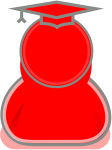
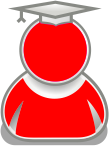
Player mit Farbe, anpassungen an der Map/getter Setter verbessert, Bugfixing, umstellung auf ID statt Name,

diff --git a/SERisiko/web/js/SvgFunctions.js b/SERisiko/web/js/SvgFunctions.js
@@ -18,8 +18,6 @@ function SvgFunctions(document){
     //# Public Methods
     this.init = function(doc){       
         svgDoc = doc;
-        this.refreshOwnerRights();
-        initUnitOnMap();
     };
 
     this.identifyAttacker = function(id){
@@ -31,7 +29,7 @@ function SvgFunctions(document){
         if(Core.getPlayerStatus() == Core.gameSteps.state.ATTACK){
             for (var i = 0; i < neighborLands.length; i++) {
                 theRect = svgDoc.getElementById(neighborLands[i]);
-                if(theRect.getAttribute("Owner") !=  Core.getPlayerName()){
+                if(theRect.getAttribute("Owner") !=  Core.getPlayerId()){
                     theRect.onmouseover = new Function("Core.svgHandler.setOpacityOnRect(this.id, 0.5, 'pointer');");
                     theRect.onmouseout = new Function("Core.svgHandler.setOpacityOnRect(this.id, 0.75, 'default');");
                     theRect.onclick = new Function("Core.svgHandler.identifyDestination(this.id, '" + id + "' );");
@@ -54,7 +52,7 @@ function SvgFunctions(document){
                     if(doneCountrys.indexOf(theRect.getAttribute('id')) == -1){
                         doneCountrys.push(theRect.getAttribute('id'));
                     }
-                    if(theRect.getAttribute("Owner") ==  Core.getPlayerName()){
+                    if(theRect.getAttribute("Owner") ==  Core.getPlayerId()){
                         theRect.onmouseover = new Function("Core.svgHandler.setOpacityOnRect(this.id, 0.5, 'pointer');");
                         theRect.onmouseout = new Function("Core.svgHandler.setOpacityOnRect(this.id, 0.75, 'default');");
                         theRect.onclick = new Function("Core.svgHandler.identifyDestination(this.id, '" + id + "' );");
@@ -83,7 +81,6 @@ function SvgFunctions(document){
                     theRect = svgDoc.getElementById(neighborLands[i] + "_back");
                     theRect.onmouseout = new Function("Core.svgHandler.setOpacityOnRect(this.id, 1, 'default');");
                     theRect.setAttribute('opacity','1');
-                    
                 }
             }
             Core.combatHandler.selectAmountUnit(attacker, id);
@@ -92,17 +89,24 @@ function SvgFunctions(document){
         }
         
     };
+    
     this.getLandOwner = function(landId){
         svgDoc.getElementById(landId).getAttribute("Owner");  
     };
     
-    this.setNewLandOwner = function(landId, playerName){
+    this.setNewLandOwner = function(landId, playerId){
         // parse playerId to Playername....
-        svgDoc.getElementById(landId).setAttribute("Owner", playerName);  
+        svgDoc.getElementById(landId).setAttribute("Owner", playerId); 
+        if(svgDoc.getElementById(landId + "_Unit") != null){
+            svgDoc.getElementById(landId + "_Unit").setAttribute("xlink:href", Core.playerList.getPlayerById(playerId).getColor());
+        }
     };
     
     this.setLandUnitcount = function(landId, count){
-        svgDoc.getElementById(landId).setAttribute("Unitcount", count);  
+        svgDoc.getElementById(landId).setAttribute("Unitcount", count);
+        if(svgDoc.getElementById(landId + "_UnitCount") != null){
+            svgDoc.getElementById(landId + "_UnitCount").innerHTML = count;
+        }
     };
     
     this.getLandUnitcount = function(landId){
@@ -125,7 +129,7 @@ function SvgFunctions(document){
     this.refreshOwnerRights = function (){
         var rects = svgDoc.getElementsByTagName("rect");
         [].slice.call(rects).forEach(function(rect){
-            if(rect.getAttribute("Owner") === Core.getPlayerName()){
+            if(rect.getAttribute("Owner") == Core.getPlayerId()){
                 rect.onmouseover = new Function("Core.svgHandler.setOpacityOnRect(this.id, 0.75, 'pointer');");
                 rect.onmouseout = new Function("Core.svgHandler.setOpacityOnRect(this.id, 1, 'default');");
                 rect.onclick = new Function("Core.svgHandler.identifyAttacker(this.id);");
@@ -133,11 +137,10 @@ function SvgFunctions(document){
         });        
     };
     
-    
     this.refreshOwnerRightsForUnitPlace = function (value){
         var rects = svgDoc.getElementsByTagName("rect");
         [].slice.call(rects).forEach(function(rect){
-            if(rect.getAttribute("Owner") === Core.getPlayerName()){
+            if(rect.getAttribute("Owner") == Core.getPlayerId()){
                 rect.onmouseover = new Function("Core.svgHandler.setOpacityOnRect(this.id, 0.75, 'pointer');");
                 rect.onmouseout = new Function("Core.svgHandler.setOpacityOnRect(this.id, 1, 'default');");
                 rect.onclick = new Function("Core.unitPlacementHandler.unitPlacement(this.id, \""+value+"\");");
@@ -197,18 +200,7 @@ function SvgFunctions(document){
         root.getElementById("startAttack").disabled = false;
     };
     
-    //Private Methods
-    
-    var arraySchnittmengeDelete = function(array, arrayDelete){
-        for(i = 0; i < arrayDelete.length; i++){
-            while(array.indexOf(arrayDelete[i]) != -1){
-                array.splice(array.indexOf(arrayDelete[i]), 1);
-            }
-        }
-        return array;
-    };
-    
-    var initUnitOnMap = function(){
+    this.initUnitOnMap = function(){
         var rects = svgDoc.getElementsByTagName("rect");
         var xPosition = 0;
         var yPosition = 0;
@@ -219,9 +211,11 @@ function SvgFunctions(document){
         var mapUnitID = svgDoc.getElementById("MapUnit");
         var mapUnitCountCountry = svgDoc.getElementById("UnitCountCountry");
         var rectID = "";
+        var bildSource = "";
         
         [].slice.call(rects).forEach(function(rect){
             rectID = rect.getAttribute("id");
+            
             if(rectID != "" && rectID.indexOf("_back") == -1){
                 countryHeight = parseInt(rect.getAttribute("height"));
                 countryWidth = parseInt(rect.getAttribute("width"));
@@ -243,8 +237,18 @@ function SvgFunctions(document){
                     xPosition = (parseInt(rect.getAttribute("x")) + countryWidth/2) - (width / 2);
                 }
                 
+                var playerArr = Core.playerList.getPlayers();
+ 
+                for (var i = 0; i < playerArr.length; i++){
+                    if(rect.getAttribute("Owner") == playerArr[i].getPlayerId()){
+                        bildSource = playerArr[i].getColor();
+                    } else {
+                        bildSource = "/img/player_img/player_red.png";
+                    }
+                }
+                
                 yPosition = (parseInt(rect.getAttribute("y")) + countryHeight/2) - (height / 2);
-                mapUnitID.innerHTML = mapUnitID.innerHTML + '<image id="' + rectID + '_Unit" x="' + xPosition + '" y="' + yPosition + '" width="' + width + '" height="' + height + '" xlink:href="/img/player_img/player_red.png" />';
+                mapUnitID.innerHTML = mapUnitID.innerHTML + '<image id="' + rectID + '_Unit" x="' + xPosition + '" y="' + yPosition + '" width="' + width + '" height="' + height + '" xlink:href="' + bildSource + '" />';
                 
                 if(countryWidth > 1234){
                     xPosition = xPosition + width * 1.4 ;
@@ -254,8 +258,19 @@ function SvgFunctions(document){
                     yPosition = yPosition + height * 1.5;
                 }
                
-                mapUnitCountCountry.innerHTML = mapUnitCountCountry.innerHTML + '<text id="' + rectID + '_UnitCount" x="' + xPosition + '" y="' + yPosition + '" class="fil6 fnt2" text-anchor="middle">99</text>';
+                mapUnitCountCountry.innerHTML = mapUnitCountCountry.innerHTML + '<text id="' + rectID + '_UnitCount" x="' + xPosition + '" y="' + yPosition + '" class="fil6 fnt2" text-anchor="middle">' + Core.svgHandler.getLandUnitcount(rectID) + '</text>';
             }
         });
+    };
+    
+    //Private Methods
+    
+    var arraySchnittmengeDelete = function(array, arrayDelete){
+        for(i = 0; i < arrayDelete.length; i++){
+            while(array.indexOf(arrayDelete[i]) != -1){
+                array.splice(array.indexOf(arrayDelete[i]), 1);
+            }
+        }
+        return array;
     };
 }

diff --git a/SERisiko/web/js/Core.js b/SERisiko/web/js/Core.js
@@ -31,6 +31,7 @@ function Core() {
             return false;
         myData.setPlayerName(name);
         
+        
         // create Player on Server + joinLobby
         this.connectionHandler.joinServer(name); // includes joinlobby
     };
@@ -126,28 +127,42 @@ function Core() {
          // cleanup
         document.getElementById("playerList").innerHTML = "";
         this.playerList.clear();
-        this.connectionHandler.listPlayers()
+        this.connectionHandler.listPlayers();
         //verify 
         this.showElement(document.getElementById("game"));
         this.hideElement(document.getElementById("selectGame"));
 
         // give me some lands test
-            this.svgHandler.setNewLandOwner("D2" ,this.getPlayerName());
-            this.svgHandler.setNewLandOwner("D1" ,this.getPlayerName());
-            this.svgHandler.setNewLandOwner("D7" ,this.getPlayerName());
-            this.svgHandler.setNewLandOwner("D6" ,this.getPlayerName());
-            this.svgHandler.setNewLandOwner("E1" ,this.getPlayerName());
-            this.svgHandler.setNewLandOwner("E3" ,this.getPlayerName());
-            this.svgHandler.setNewLandOwner("C4" ,this.getPlayerName());
-            this.svgHandler.setNewLandOwner("B5" ,this.getPlayerName());
-            this.svgHandler.setNewLandOwner("A1" ,this.getPlayerName());
-            this.svgHandler.setNewLandOwner("A5" ,this.getPlayerName());
-            this.svgHandler.setNewLandOwner("P4" ,this.getPlayerName());
-            this.svgHandler.setNewLandOwner("P12" ,this.getPlayerName());
+            this.svgHandler.setNewLandOwner("D2" ,this.getPlayerId());
+            this.svgHandler.setNewLandOwner("D1" ,this.getPlayerId());
+            this.svgHandler.setNewLandOwner("D7" ,this.getPlayerId());
+            this.svgHandler.setNewLandOwner("D6" ,this.getPlayerId());
+            this.svgHandler.setNewLandOwner("E1" ,this.getPlayerId());
+            this.svgHandler.setNewLandOwner("E3" ,this.getPlayerId());
+            this.svgHandler.setNewLandOwner("C4" ,this.getPlayerId());
+            this.svgHandler.setNewLandOwner("B5" ,this.getPlayerId());
+            this.svgHandler.setNewLandOwner("A1" ,this.getPlayerId());
+            this.svgHandler.setNewLandOwner("A5" ,this.getPlayerId());
+            this.svgHandler.setNewLandOwner("P4" ,this.getPlayerId());
+            this.svgHandler.setNewLandOwner("P12" ,this.getPlayerId());
+            
+            this.svgHandler.setLandUnitcount("D2" ,1);
+            this.svgHandler.setLandUnitcount("D1" , 1 );
+            this.svgHandler.setLandUnitcount("D7" , 4);
+            this.svgHandler.setLandUnitcount("D6" ,1);
+            this.svgHandler.setLandUnitcount("E1" ,1);
+            this.svgHandler.setLandUnitcount("E3" ,1);
+            this.svgHandler.setLandUnitcount("C4" ,3);
+            this.svgHandler.setLandUnitcount("B5" ,2);
+            this.svgHandler.setLandUnitcount("A1" ,4);
+            this.svgHandler.setLandUnitcount("A5" ,5);
+            this.svgHandler.setLandUnitcount("P4" ,2);
+            this.svgHandler.setLandUnitcount("P12" ,4);
             
             this.setPlayerStatus(Core.gameSteps.state.FIRSTUNITMOVEMENT);
             
             document.getElementById("gamePhase").disabled = false;
+            
         //#
     };
 

diff --git a/SERisiko/web/js/ServerAnswerParser.js b/SERisiko/web/js/ServerAnswerParser.js
@@ -78,7 +78,7 @@ function ServerAnswerParser(doc){
             Core.hideElement(root.getElementById("newGame"));
             Core.prepareJoinedGame();
 
-            root.getElementById("startGame").innerHTML = '<button  id="startGameBtn" name="startGameBtn" onClick="Core.connectionHandler.startGame();" style="margin-bottom: 10px;">Spielstarten</button>';
+            root.getElementById("startGame").innerHTML = '<button  id="startGameBtn" name="startGameBtn" onClick="Core.connectionHandler.startGame();" style="width: 160px; margin-bottom: 10px;">Spielstarten</button>';
             root.getElementById("startGameBtn").disabled = true;
             //cleanup
             root.getElementById("maxPlayers").value = "6";
@@ -108,7 +108,7 @@ function ServerAnswerParser(doc){
         Core.playerList.clear();
         // parse message			  	  
         for(var i = 0; i < message.data.length; i++){
-            var player = new PlayerObject(message.data[i].Player.name, parseInt(message.data[i].Player.id), message.data[i].Player.ready);
+            var player = new PlayerObject(message.data[i].Player.name, parseInt(message.data[i].Player.id), message.data[i].Player.ready, Core.playerList.getPlayerAmount());
             Core.playerList.addPlayer(player);
         }
         Core.updatePlayerList();
@@ -127,7 +127,7 @@ function ServerAnswerParser(doc){
                 if(root.getElementById("startGameBtn") != null){
                     root.getElementById("startGameBtn").disabled = false;
                 }
-                root.getElementById("backToLobbyBtn").disabled = true;
+                Core.svgHandler.refreshOwnerRightsForUnitPlace(5);
             } else {
                 root.getElementById("gameStatus").innerHTML = "Bitte melden Sie sich Spielbereit";
                 root.getElementById("gamePhase").innerHTML = "Bereit zum Spielen";
@@ -135,16 +135,15 @@ function ServerAnswerParser(doc){
                 if(root.getElementById("startGameBtn") != null){
                     root.getElementById("startGameBtn").disabled = true;
                 }
-                root.getElementById("backToLobbyBtn").disabled = false;
             }
-            var player = new PlayerObject(message.data[0].Player.name, parseInt(message.data[0].Player.id), message.data[0].Player.ready);
+            var player = new PlayerObject(message.data[0].Player.name, parseInt(message.data[0].Player.id), message.data[0].Player.ready, Core.playerList.getPlayerAmount());
             Core.playerList.updatePlayer(parseInt(message.data[0].Player.id), player);
             // cleanup
             root.getElementById("playerList").innerHTML = "";
             Core.updatePlayerList();
         }
         else{
-            var player = new PlayerObject(message.data[0].Player.name, parseInt(message.data[0].Player.id), message.data[0].Player.ready);
+            var player = new PlayerObject(message.data[0].Player.name, parseInt(message.data[0].Player.id), message.data[0].Player.ready, Core.playerList.getPlayerAmount());
             Core.playerList.updatePlayer(parseInt(message.data[0].Player.id), player);   
             root.getElementById("playerList").innerHTML = "";
             Core.updatePlayerList(); 

diff --git a/SERisiko/web/js/Objects.js b/SERisiko/web/js/Objects.js
@@ -135,24 +135,32 @@ function PlayerList(){
     //# Private Methods
 }
 
-function PlayerObject(name, id, rdy){
+function PlayerObject(name, id, rdy, colorArrId){
     //#Public Vars
-
+    
     //#Private Vars
+    var colorArr = ["/img/player_img/player_purple.png", "/img/player_img/player_yellow.png", "/img/player_img/player_blue.png", "/img/player_img/player_green.png", "/img/player_img/player_black.png", "/img/player_img/player_gray.png"];
     var playerName = name;
     var playerId = id;
     var readyState = rdy;
-
+    var color = colorArr[colorArrId];
+    
     //# Public Methods
     this.getPlayerName = function(){
         return playerName;
     };
+    
      this.getReadyState = function(){
         return readyState;
     };
+    
     this.getPlayerId = function(){
         return playerId;
-    }
+    };
+    
+    this.getColor = function(){
+      return color;  
+    };
     //# Private Methods
 }
 

diff --git a/SERisiko/web/js/GameSteps.js b/SERisiko/web/js/GameSteps.js
@@ -7,7 +7,7 @@
     
 function GameSteps(){
     //#Public Vars
-   this.state = {
+    this.state = {
         IDLE: 0,
         SUPPLYDRAW: 1,
         ATTACK: 2,
@@ -36,6 +36,7 @@ function GameSteps(){
         // After Answer
         Core.svgHandler.refreshOwnerRightsForUnitPlace(3);
         Core.setPlayerStatus(Core.gameSteps.state.UNITPLACEMENT);
+        Core.svgHandler.initUnitOnMap();
     };
     
     this.doUnitPlacement = function(){
@@ -88,7 +89,7 @@ function GameSteps(){
     
     var clearDisplay = function(){
         $( "#bottom_overlay" ).slideUp( "slow");
-        Core.hideElement(root.getElementById("mutex"));
+        Core.hideElement(document.getElementById("mutex"));
         document.getElementById("bottom_overlay").innerHTML = "";
         
         document.getElementById("loading_overlay").innerHTML = "";

diff --git a/SERisiko/web/css/style.css b/SERisiko/web/css/style.css
@@ -186,9 +186,12 @@ label[for=unitAmountAttack]{
     margin: 0px auto;
 }
 
-#gamePhase{
+#startGame{
+    position: relative;
     margin-top: 160px;
+}
+
+#gamePhase{
     margin-bottom: 10px; 
     width: 160px;
-    position: relative;
 }
